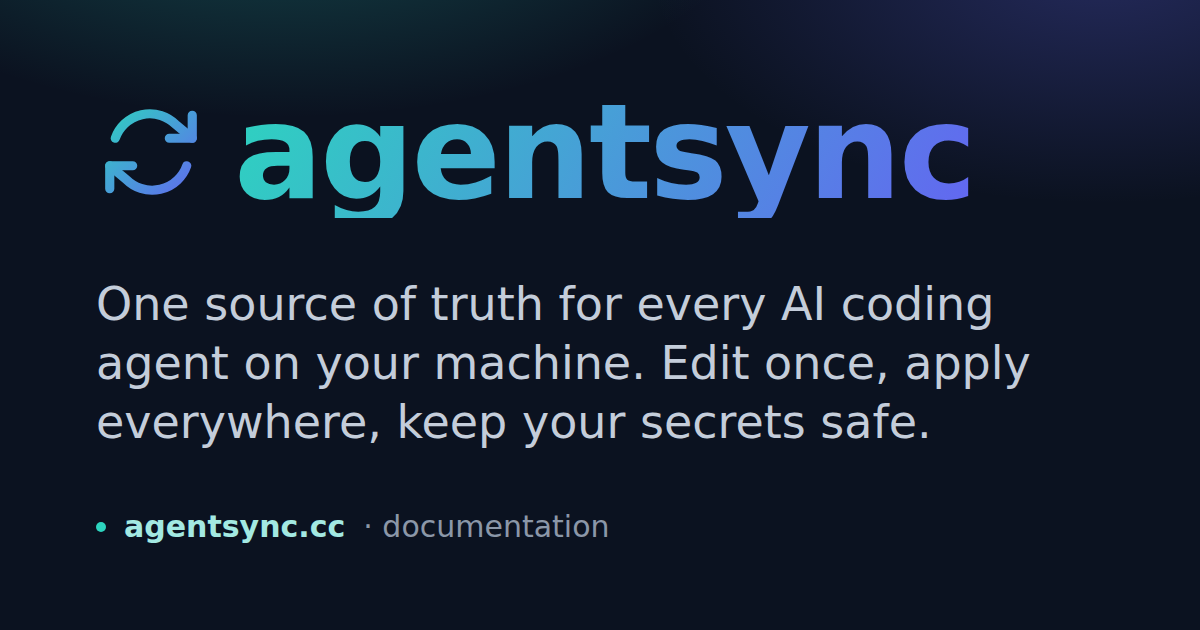
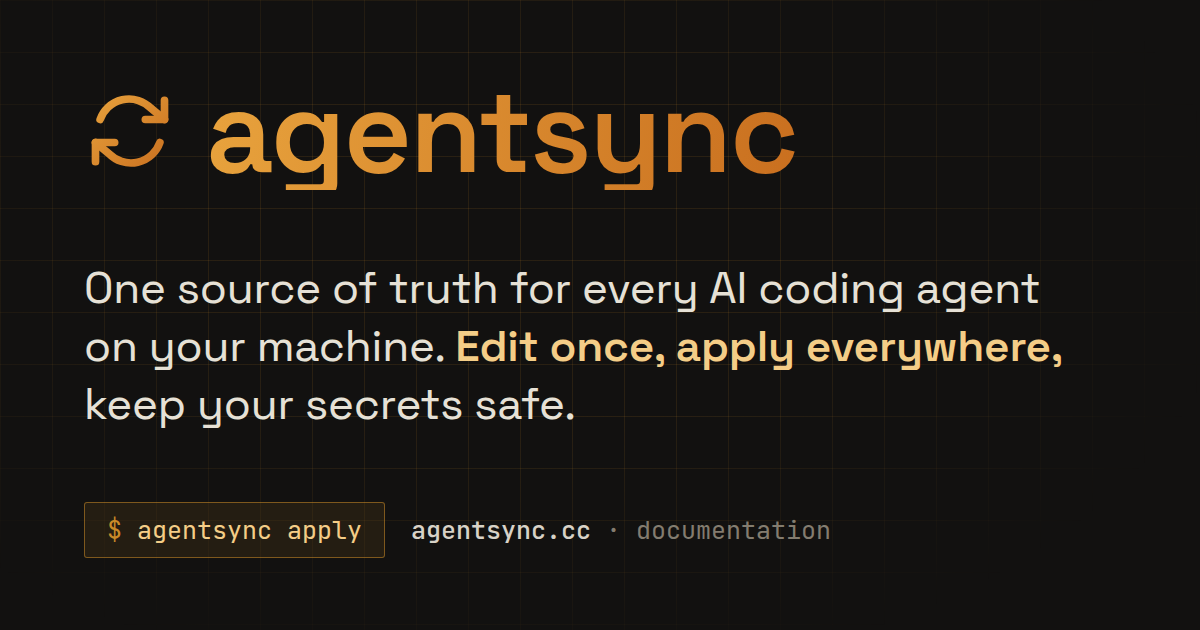
docs(website): regenerate og.png social card in the drafting-table brand (#185)
The social card still carried the old teal-on-navy look after the visual-identity
redesign, so link previews were off-brand. Rebuild it 1200x630 in the new
language: graphite ground, blueprint grid, amber-gradient Space Grotesk wordmark
and recolored sync-arrows logo, JetBrains Mono `$ agentsync apply` chip, same
tagline copy as the site hero.

Claude-Session: https://claude.ai/code/session_01Rm57iTJxbjZWQnWRwWbhWR

diff --git a/CHANGELOG.md b/CHANGELOG.md
@@ -16,7 +16,8 @@ source layout, CLI surface, and state schema are stabilizing but may still chang
   (self-hosted), a warm graphite + amber palette (manila drafting-paper light
   mode), gruvbox code themes, square-cornered chrome, and an animated
   source-to-agents fan-out hero on the landing page. Styling only — no content
-  or navigation changes.
+  or navigation changes. The `og.png` social card is regenerated to match
+  (amber-on-graphite, same typefaces), so link previews carry the new brand.
 
 ### Added
 
